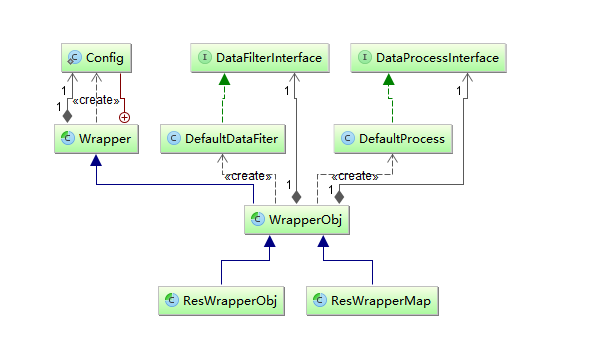
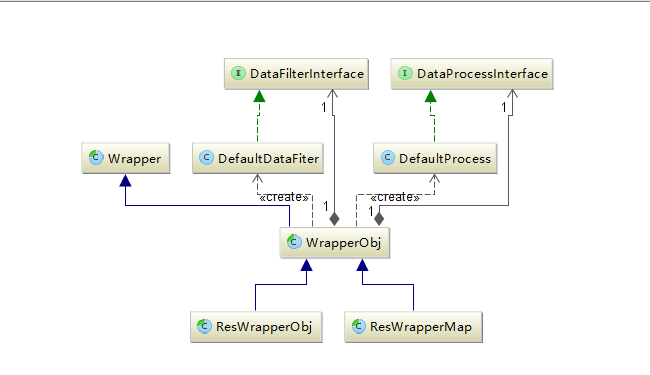
处理一些小问题

Changed region(s): [[0.0914, 0.1159, 0.8832, 0.9275], [0.0, 0.0, 1.0, 0.029], [0.0914, 0.1159, 0.2437, 0.2319]]

diff --git a/src/main/java/seven/wapperInt/wapperRef/WrapperObj.java b/src/main/java/seven/wapperInt/wapperRef/WrapperObj.java
@@ -25,9 +25,9 @@ import org.apache.poi.xssf.usermodel.XSSFWorkbook;
 import seven.wapperInt.Wrapper;
 import seven.wapperInt.callBack.DataFilterInterface;
 import seven.wapperInt.callBack.DataFilterColumnInterface;
-import seven.wapperInt.callBack.DataProcessInterface;
-import seven.wapperInt.callBack.imp.DefaultDataFiter;
-import seven.wapperInt.callBack.imp.DefaultProcess;
+import seven.wapperInt.callBack.DataFilterProcessInterface;
+import seven.wapperInt.callBack.imp.DefaultDataFilter;
+import seven.wapperInt.callBack.imp.DefaultDataProFilter;
 
 import java.io.File;
 import java.util.*;
@@ -37,8 +37,8 @@ import java.util.*;
  * @date   2016年4月12日-下午4:07:57
  */
 public abstract class WrapperObj<T> extends Wrapper {
-	protected DataFilterInterface filter=new DefaultDataFiter<Object>();
-	protected DataProcessInterface process=new DefaultProcess<Object>();
+	protected DataFilterInterface filter=new DefaultDataFilter<Object>();
+	protected DataFilterProcessInterface process=new DefaultDataProFilter<Object>();
 	protected List<String> filterColBy_key=new ArrayList<>();
 	protected List<String> filterColBy_value=new ArrayList<>();
 	protected Comparator<? super Object> c;
@@ -58,7 +58,7 @@ public abstract class WrapperObj<T> extends Wrapper {
 
 
 	public Wrapper FilterCol(DataFilterColumnInterface df) {
-		for (String s:df.Filter() ) {
+		for (String s:df.filter() ) {
 			filterColBy_key.add(s);
 		}
 		return this;
@@ -103,7 +103,7 @@ public abstract class WrapperObj<T> extends Wrapper {
 	public Wrapper Filter(DataFilterInterface<?> filter) {
 		this.filter = filter;return this;
 	}
-	public Wrapper Process(DataProcessInterface<?> process) {
+	public Wrapper Process(DataFilterProcessInterface<?> process) {
 		this.process = process;return this;
 	}
 }

diff --git a/src/test/java/Demo.java b/src/test/java/Demo.java
@@ -34,17 +34,21 @@ import static seven.ExcelFactory.getBeans;
 public class Demo {
     @Test
     public void Test_01() throws Exception {
-        getBeans(System.getProperty("user.dir").concat("\\测试.xls"),
+        ExcelFactory.getBeans(System.getProperty("user.dir").concat("\\测试.xls"),
                 new ResWrapperMap() {
                     @Override
                     protected void LoadConfig(Config config) {
                         config.setContent_row_start(3);
                         config.setTitle_row(2);
                     }
-                }).
+                }).//这里能够处理每一行数据
                 Process((HashMap<String, String> o) -> System.out.println(o + "\n")
+                //这里能够处理时候过滤某一列
                 ).FilterCol(() -> new String[]{}
-        ).Filter((HashMap<String, String> o) -> o.get("创建人") != null && o.get("创建人").length() > 5).Create();
+                //这里能根据某一行的某一列的内容来取舍这行数据
+        ).Filter((HashMap<String, String> o) -> o.get("创建人") != null && o.get("创建人").length() > 5
+                //排序
+        ).Sort((o1, o2) -> o1.hashCode()>o2.hashCode()?1:hashCode()==o2.hashCode()?0:-1).Create();
 
         System.out.println(
         getBeans(System.getProperty("user.dir").concat("\\测试.xls"),

diff --git a/src/main/java/seven/wapperInt/callBack/imp/DefaultDataProFilter.java b/src/main/java/seven/wapperInt/callBack/imp/DefaultDataProFilter.java
@@ -1,6 +1,6 @@
 package seven.wapperInt.callBack.imp;
 
-import seven.wapperInt.callBack.DataProcessInterface;
+import seven.wapperInt.callBack.DataFilterProcessInterface;
 
 /**
  * [Github]https://github.com/MatrixSeven
@@ -8,7 +8,7 @@ import seven.wapperInt.callBack.DataProcessInterface;
  * Created by seven on 2016/10/18.
  */
 @SuppressWarnings("unchecked")
-public class DefaultProcess<T> implements DataProcessInterface<T>{
+public class DefaultDataProFilter<T> implements DataFilterProcessInterface<T> {
     @Override
     public void process(T o) {
 

diff --git a/src/main/java/seven/wapperInt/callBack/imp/DefaultDateColFilter.java b/src/main/java/seven/wapperInt/callBack/imp/DefaultDateColFilter.java
@@ -7,10 +7,10 @@ import seven.wapperInt.callBack.DataFilterColumnInterface;
  * [Bolg]https://matrixseven.github.io/
  * Created by seven on 2016/10/19.
  */
-public class DefaultDateColFiter implements DataFilterColumnInterface {
+public class DefaultDateColFilter implements DataFilterColumnInterface {
 
     @Override
-    public String[] Filter() {
+    public String[] filter() {
         return new String[0];
     }
 }

diff --git a/src/main/java/seven/wapperInt/callBack/imp/DefaultDataFilter.java b/src/main/java/seven/wapperInt/callBack/imp/DefaultDataFilter.java
@@ -7,7 +7,7 @@ import seven.wapperInt.callBack.DataFilterInterface;
  * [Bolg]https://matrixseven.github.io/
  * Created by seven on 2016/10/18.
  */
-public class DefaultDataFiter<T> implements DataFilterInterface<T>{
+public class DefaultDataFilter<T> implements DataFilterInterface<T>{
     @Override
     public Boolean filter(T o) {
         return true;

diff --git a/src/main/java/seven/wapperInt/wapperRef/sysWppers/ResWrapperMap.java b/src/main/java/seven/wapperInt/wapperRef/sysWppers/ResWrapperMap.java
@@ -18,6 +18,7 @@ import java.util.Map;
 //		   .--(^)(^^)---/#\
 //		 .' @          /###\
 //		 :         ,   #####
+//		 :         ,   #####
 //		  `-..__.-' _.-\###/
 //		        `;_:    `"'
 //		      .'"""""`.
